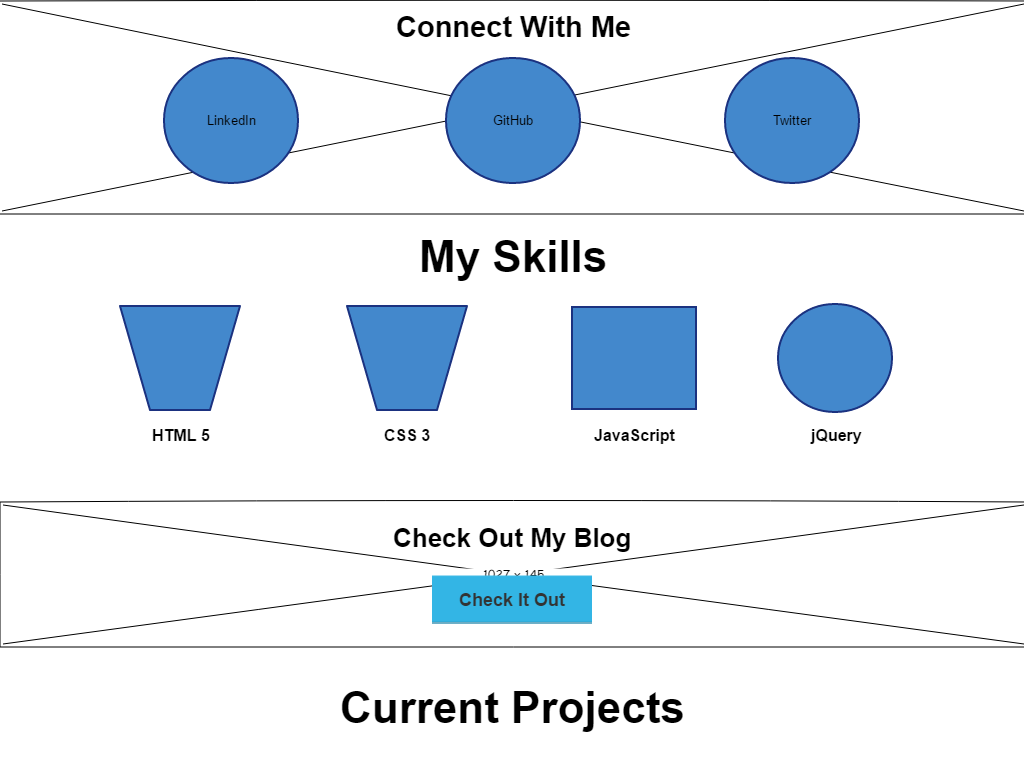
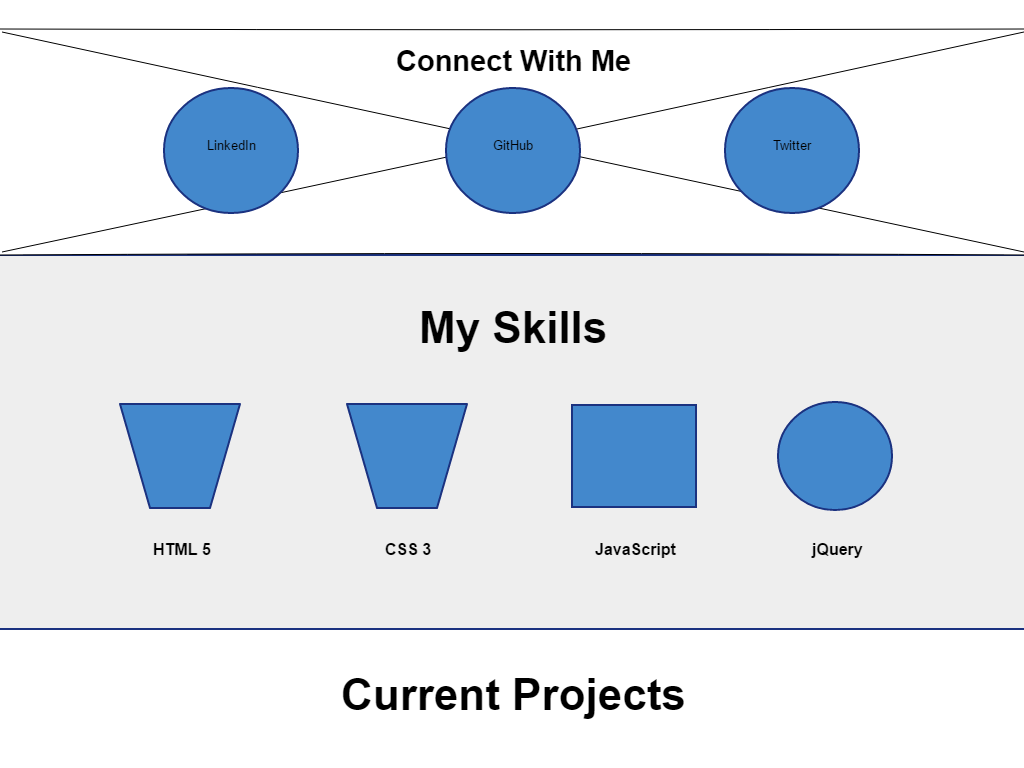
updated wireframe images

diff --git a/index.html b/index.html
@@ -4,10 +4,13 @@
     <meta charset="UTF-8">
     <meta name="viewport" content="width=device-width, initial-scale=1.0">
     <meta http-equiv="X-UA-Compatible" content="ie=edge">
+    <link rel="stylesheet" href="style.css">
     <title>Nathan Szelag's Web Portfolio</title>
 </head>
 <body>
-    <h1>Hello World!</h1>
+    <img src="images/desktopsection1.png" alt="">
+    <img src="images/Desktop Section 2.png" alt="">
+    <img src="images/Desktop Section 3.png" alt="">
     
 </body>
 </html>

diff --git a/style.css b/style.css
@@ -1,0 +1,4 @@
+img {
+    display: block;
+    margin: 0 auto;
+}
